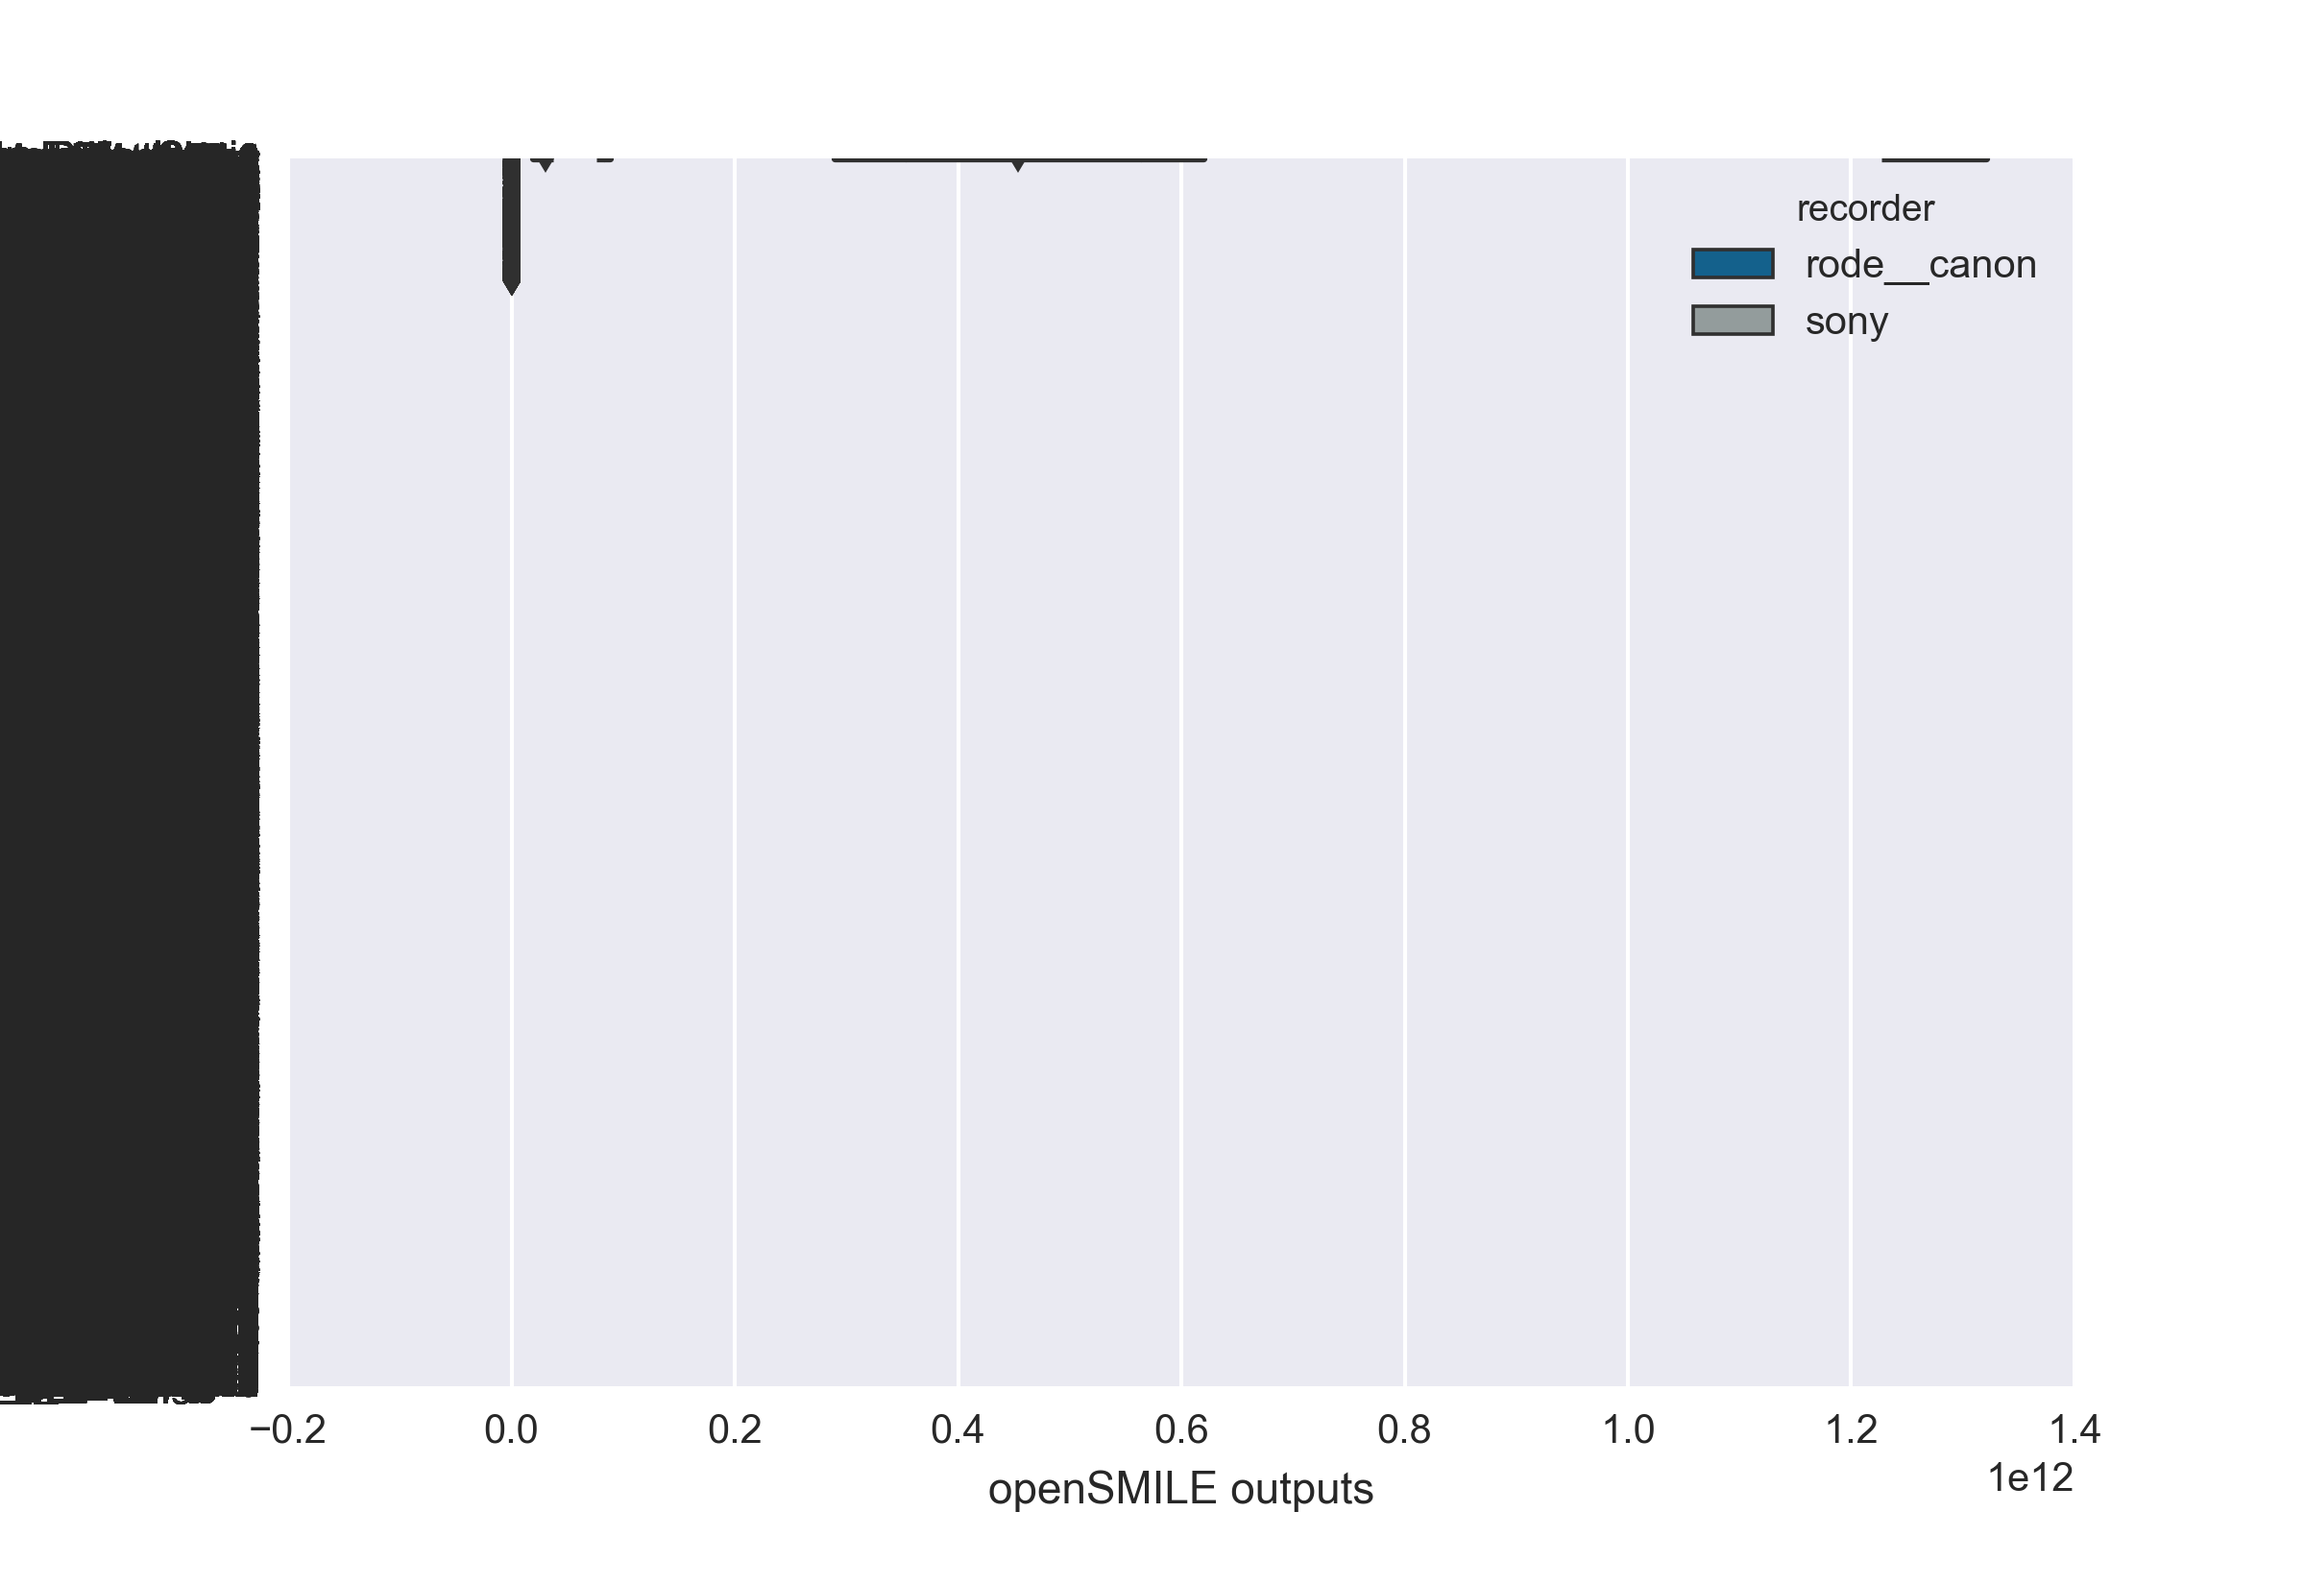
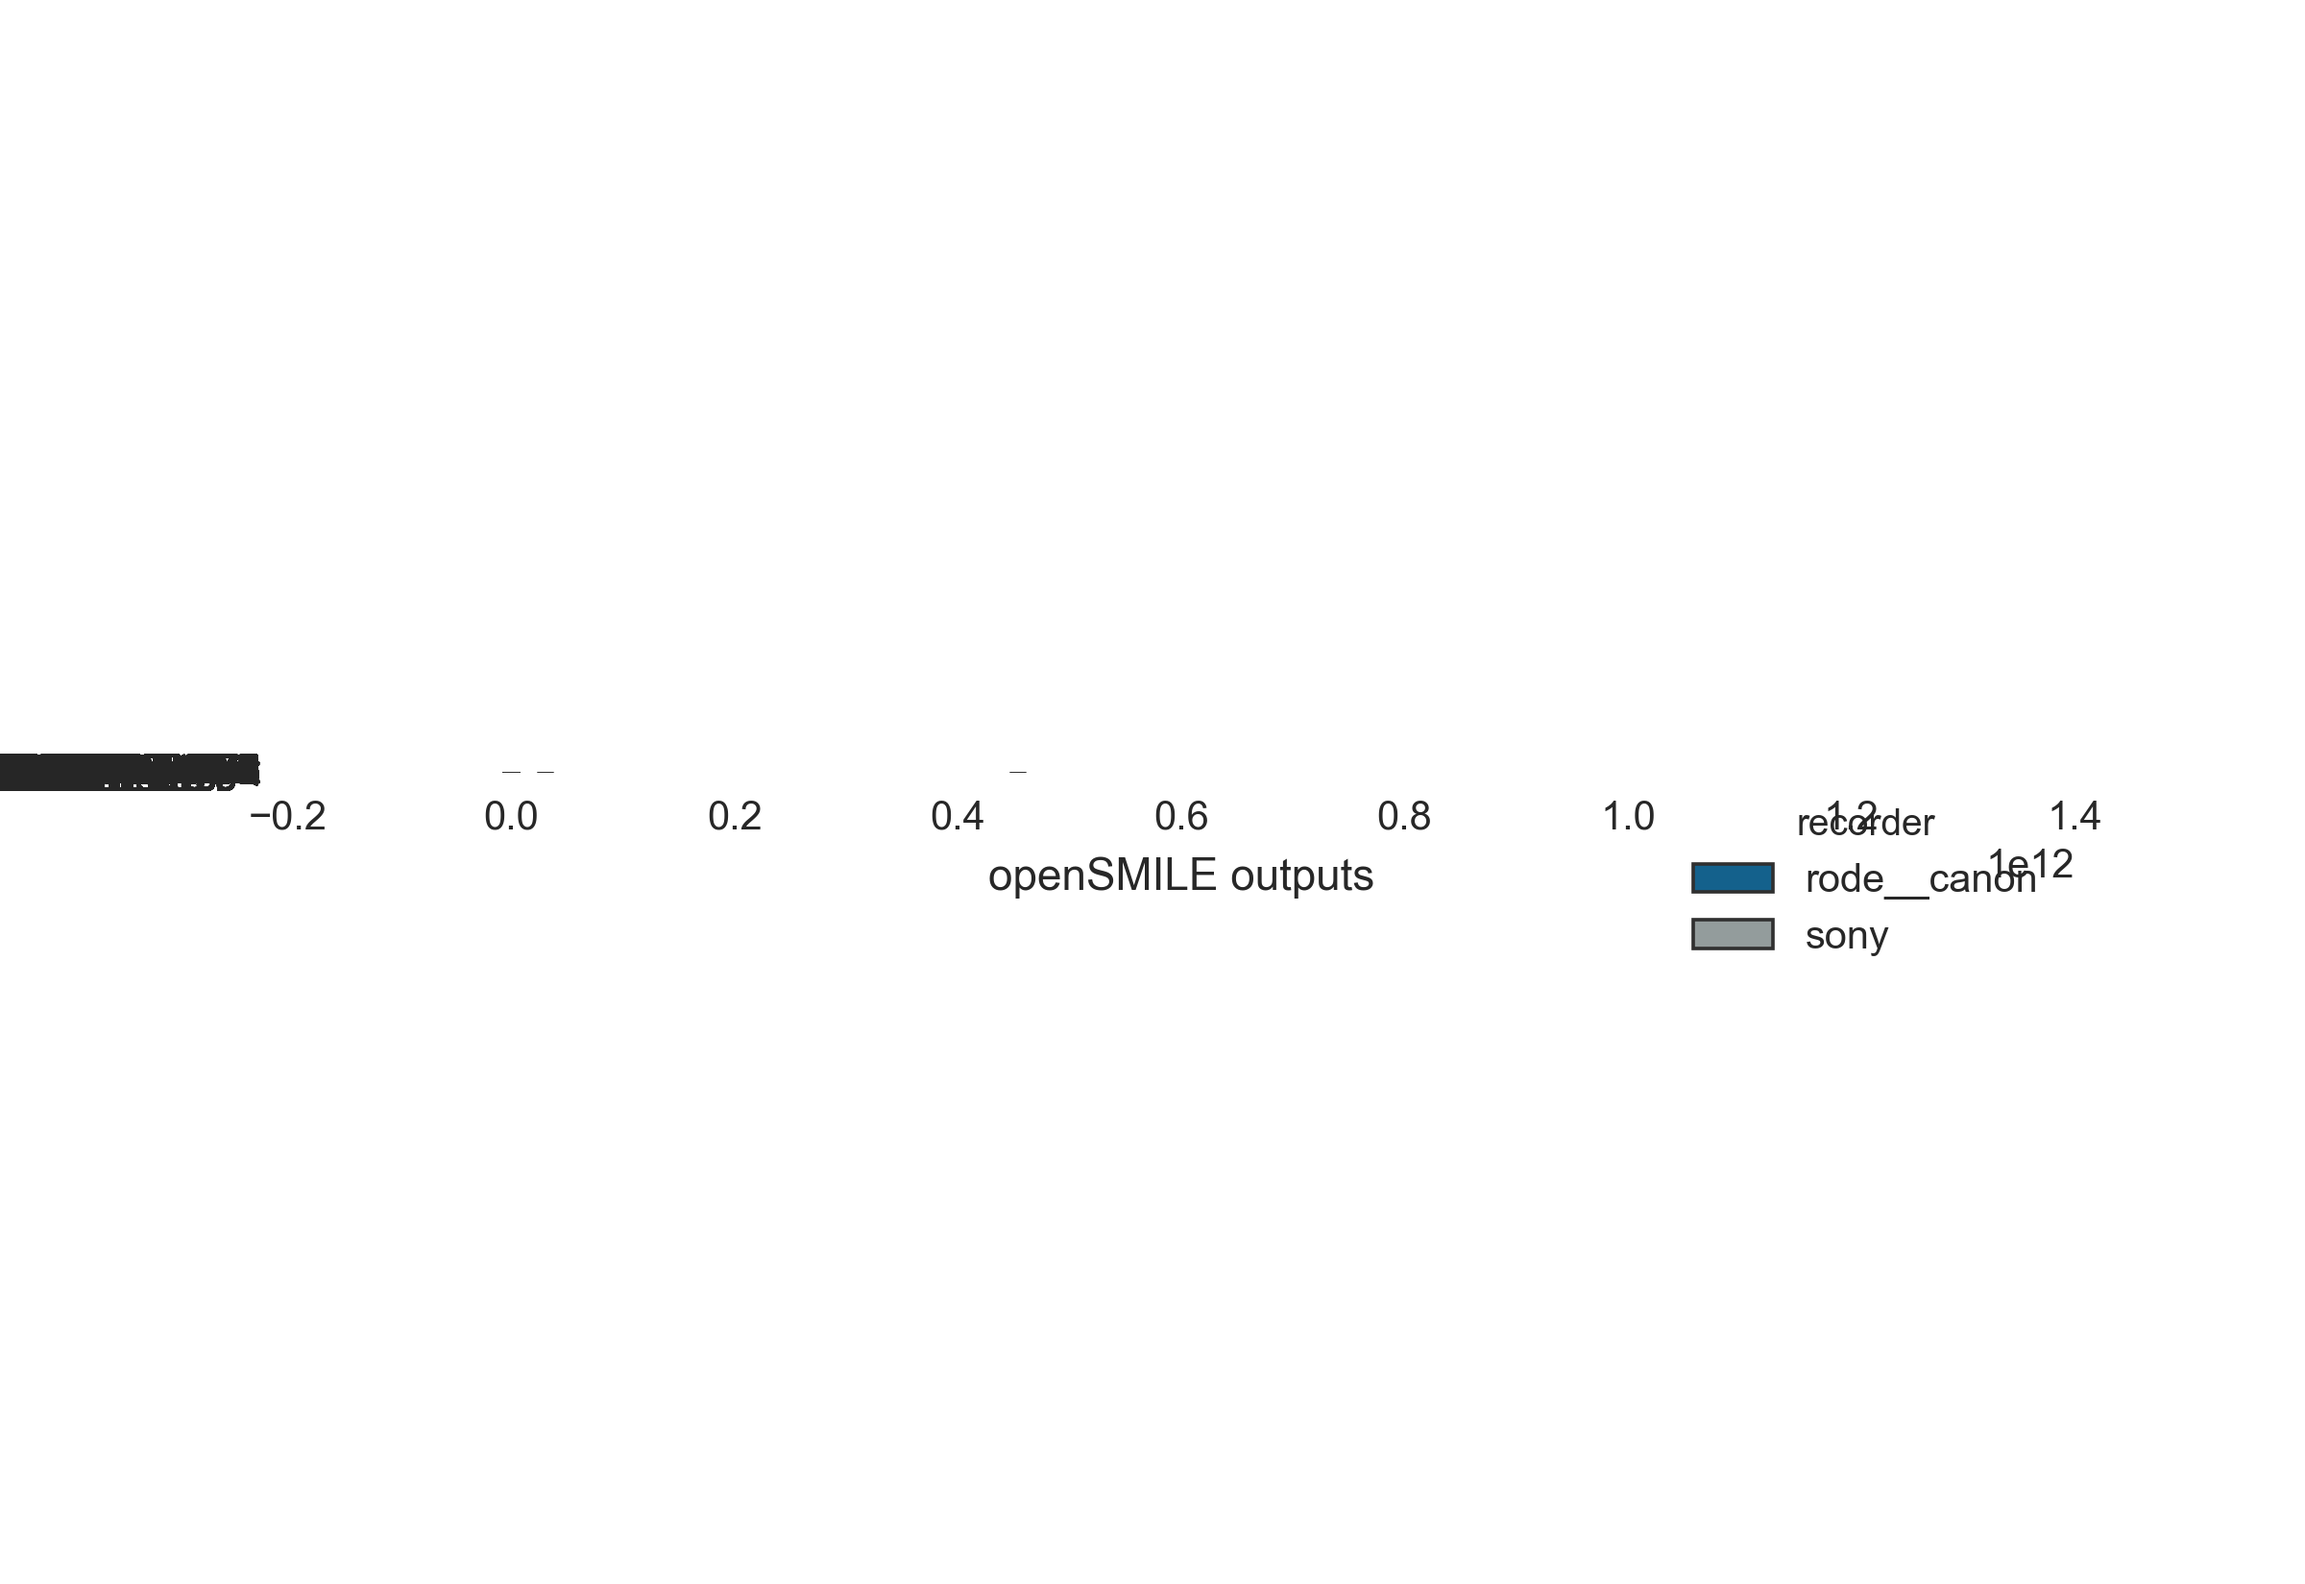
generalize

diff --git a/test_equipment/recorder_box_plots.py b/test_equipment/recorder_box_plots.py
@@ -11,15 +11,16 @@ Author:
 
 © 2017, Child Mind Institute, Apache v2.0 License
 """
-import numpy as np, openSMILE_dir_to_csv as odtc, os, pandas as pd, \
-       matplotlib.pyplot as plt, seaborn as sns, subprocess
+import os, sys
+if os.path.abspath('../..') not in sys.path:
+    sys.path.append(os.path.abspath('../..'))
+from SM_openSMILE.utilities import cmi_color_pallette as ccp
+import openSMILE_dir_to_csv as odtc, pandas as pd, matplotlib.pyplot as plt, \
+       seaborn as sns, subprocess
+
+sns.set_palette(ccp.cmi_colors())
 
 def plot(dataframe, directory):
-    cmi_colors = ["#0067a0", "#919d9d", "#00c1d5", "#b5bd00", "#a31c3f",
-                  "#ea234b", "#eeae30", "#f2cd32", "#4db789", "#90d9b9",
-                  "#404341", "#e4e4e4", "#090e3c", "#242a6a", "#97e2ef",
-                  "#f9e28a", "#d3da5f"]
-    sns.set_palette(cmi_colors)
     dataframe = dataframe.drop(['mean', 'median', 'std', 'mad'], axis=1)
     dataframe = dataframe.T
     indices = list(dataframe.index)
@@ -51,8 +52,9 @@ def plot(dataframe, directory):
     plt.close()
     h = sns.boxplot(x="openSMILE outputs", y="features", hue="recorder", data=
                     df_long)
-    plt.yticks(np.arange(len(df_long['features'].unique())), df_long['features'
-               ].unique())
+    h.set_aspect(28/len(df_long['features'].unique()))
+    # plt.yticks(np.arange(len(df_long['features'].unique())), df_long['features'
+    #           ].unique())
     # plt.tight_layout()
     fig_h = h.get_figure()
     fig_h.savefig(os.path.join(directory, "collected/horizontal_boxplot.png"), 
@@ -62,7 +64,8 @@ def plot(dataframe, directory):
     
 
 def main():
-    tippy_top = "/Users/jon.clucas/SM_openSMILE/test_equipment/recorder_test"
+    tippy_top = input("Top directory for recorder test: ")
+    # tippy_top = "/Users/jon.clucas/SM_openSMILE/test_equipment/recorder_test"
     top_dirs = [os.path.join(tippy_top, "sentences/ComParE_2016"),
                 os.path.join(tippy_top, "sentences/emobase"),
                 os.path.join(tippy_top, "word_list/ComParE_2016"),

diff --git a/test_equipment/setup_box_plots.py b/test_equipment/setup_box_plots.py
@@ -11,15 +11,16 @@ Author:
 
 © 2017, Child Mind Institute, Apache v2.0 License
 """
-import openSMILE_dir_to_csv as odtc, os, pandas as pd, matplotlib.pyplot as \
-       plt, seaborn as sns, subprocess
+import os, sys
+if os.path.abspath('../..') not in sys.path:
+    sys.path.append(os.path.abspath('../..'))
+from SM_openSMILE.utilities import cmi_color_pallette as ccp
+import openSMILE_dir_to_csv as odtc, pandas as pd, matplotlib.pyplot as plt, \
+       seaborn as sns, subprocess
+
+sns.set_palette(ccp.cmi_colors())
 
 def plot(dataframe, directory):
-    cmi_colors = ["#0067a0", "#919d9d", "#00c1d5", "#b5bd00", "#a31c3f",
-                  "#ea234b", "#eeae30", "#f2cd32", "#4db789", "#90d9b9",
-                  "#404341", "#e4e4e4", "#090e3c", "#242a6a", "#97e2ef",
-                  "#f9e28a", "#d3da5f"]
-    sns.set_palette(cmi_colors)
     dataframe = dataframe.drop(['mean', 'median', 'std', 'mad'], axis=1)
     dataframe = dataframe.T
     indices = list(dataframe.index)
@@ -48,7 +49,8 @@ def plot(dataframe, directory):
     plt.close()
 
 def main():
-    tippy_top = "PMAV"
+    tippy_top = input("Top directory for recorder setup test: ")
+    # tippy_top = "PMAV"
     top_dirs = [os.path.join(tippy_top, "ComParE_2016"),
                 os.path.join(tippy_top, "emobase")]
     for directory in top_dirs:

diff --git a/utilities/README.md b/utilities/README.md
@@ -1,6 +1,10 @@
 # SM_openSMILE/utilities
 Scripts with functions to navigate specifically formatted data.
 
+##
+[`cmi_color_pallette.py`](https://github.com/shnizzedy/SM_openSMILE/blob/master/cmi_color_pallette.py)
+CMI color pallette.
+
 ## [`iterate_ursis.py`](https://github.com/shnizzedy/SM_openSMILE/blob/master/iterate_ursis.py)
 Script to iterate through [top_directory]/URSI/[subdirectory]/files structure
 and return a list of included files.
